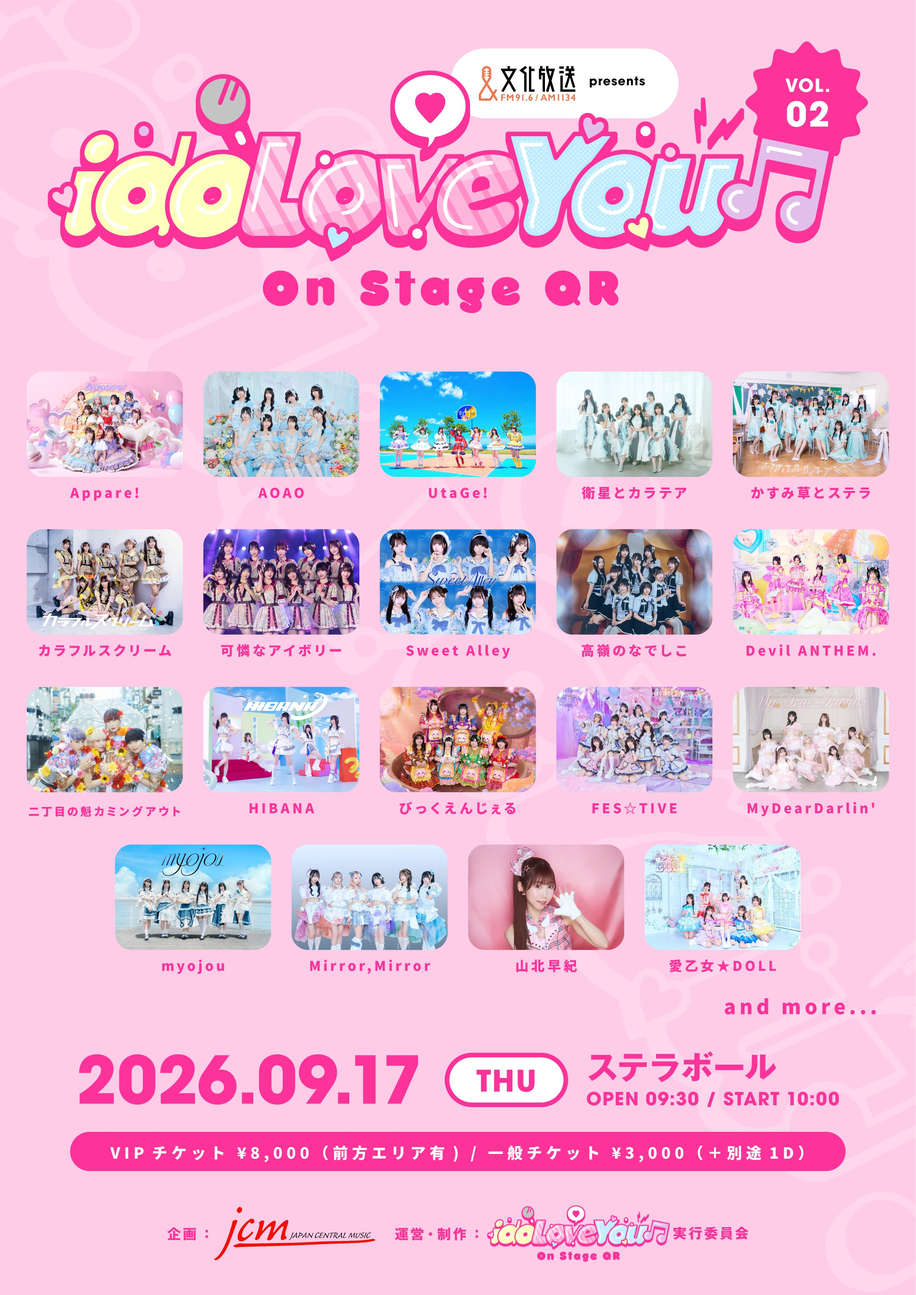
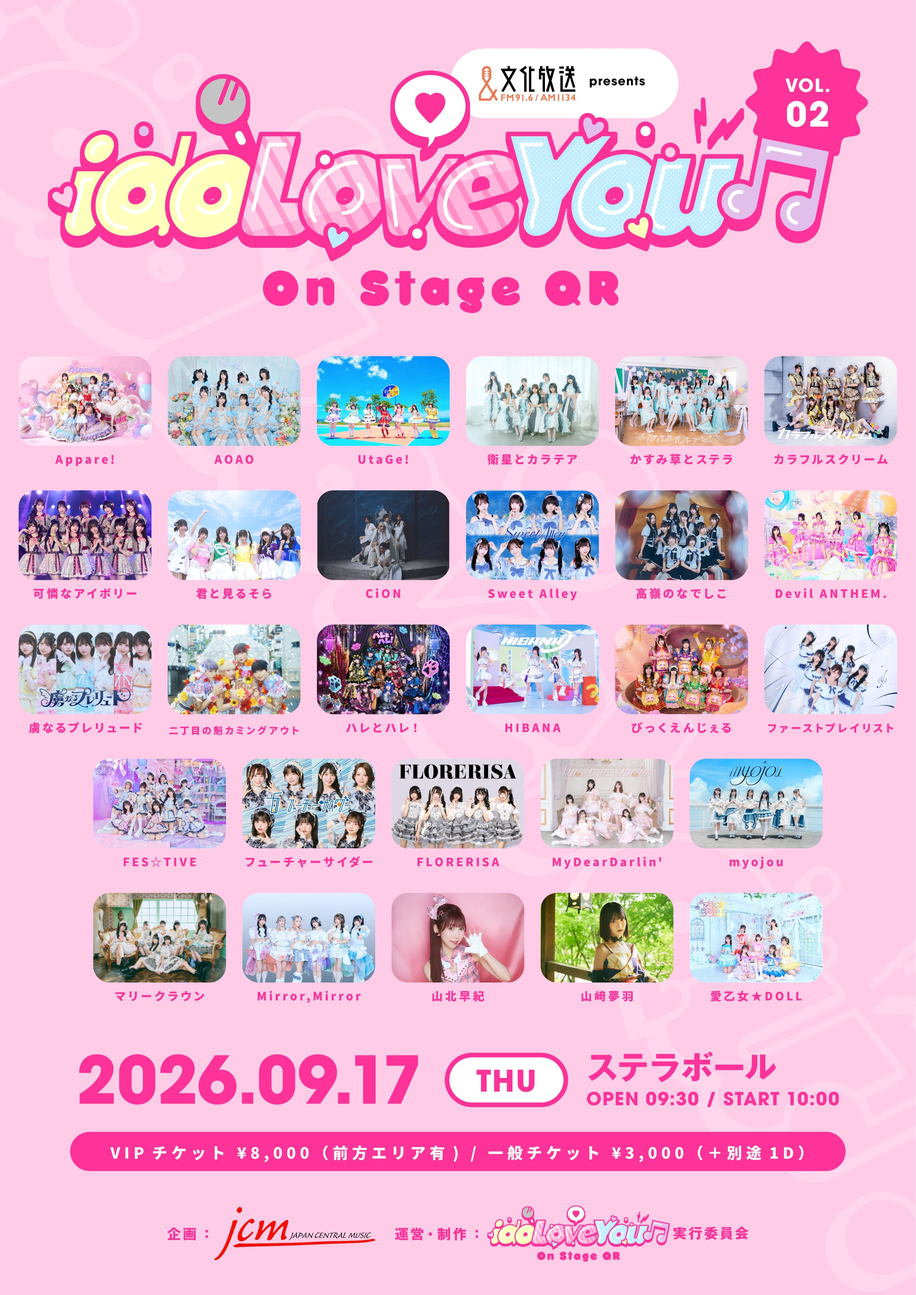
イベントを更新

diff --git a/app/features/events/2026/09/2026-09-17_idoLove You♬ -On Stage QR- vol.2.ts b/app/features/events/2026/09/2026-09-17_idoLove You♬ -On Stage QR- vol.2.ts
@@ -14,11 +14,11 @@ export const meta: EventMetaDescriptor = {
   images: [
     {
       path: "/events/2026/2026-09-17_idoLove You♬ -On Stage QR- vol.2.jpg",
-      ref: "https://x.com/ily_joqr/status/2090031018061267241",
+      ref: "https://x.com/ily_joqr/status/2099800407056830723",
     },
     {
       path: "/events/2026/2026-09-17_idoLove You♬ -On Stage QR- vol.2_タイムテーブル.png",
-      ref: "https://x.com/takanenofficial/status/2097297651679076795",
+      ref: "https://x.com/ily_joqr/status/2099800407056830723",
       tags: ["timetable"],
     },
   ],
@@ -38,12 +38,13 @@ export const meta: EventMetaDescriptor = {
     start: "20:20",
     end: "20:45",
   },
-  updatedAt: "2026-09-09",
+  updatedAt: "2026-09-15",
 };
 
 export const content = /* md */ `
   ## リンク
 
+  - [タイムテーブル修正版 - idoLove You♬ -On The Radio- X](https://x.com/ily_joqr/status/2099800407056830723)
   - [タイムテーブル公開 - 公式 X](https://x.com/takanenofficial/status/2097297651679076795)
   - [告知 - 公式 X](https://x.com/takanenofficial/status/2090076322873709015)
   - [告知 - idoLove You♬ -On The Radio- X](https://x.com/ily_joqr/status/2090031018061267241)
